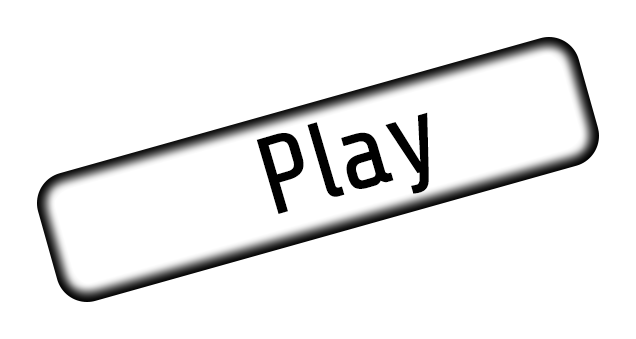
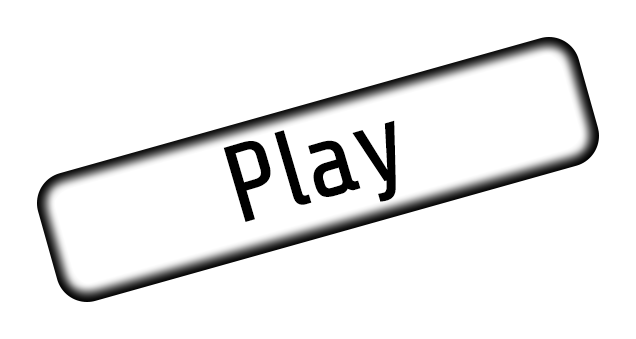
may 30th 12:13

Changed region(s): [[0.3286, 0.3245, 0.6871, 0.649]]

diff --git a/core/src/com/wilson/paino/MainMenuScreen.java b/core/src/com/wilson/paino/MainMenuScreen.java
@@ -2,19 +2,23 @@ package com.wilson.paino;
 
 import com.badlogic.gdx.Gdx;
 import com.badlogic.gdx.Screen;
+import com.badlogic.gdx.graphics.GL20;
 import com.badlogic.gdx.graphics.OrthographicCamera;
 import com.badlogic.gdx.graphics.Texture;
 import com.badlogic.gdx.graphics.g2d.SpriteBatch;
 import com.badlogic.gdx.scenes.scene2d.Event;
 import com.badlogic.gdx.scenes.scene2d.EventListener;
+import com.badlogic.gdx.scenes.scene2d.InputEvent;
 import com.badlogic.gdx.scenes.scene2d.Stage;
 import com.badlogic.gdx.scenes.scene2d.ui.Button;
 import com.badlogic.gdx.scenes.scene2d.ui.Image;
 import com.badlogic.gdx.scenes.scene2d.ui.ImageButton;
 import com.badlogic.gdx.scenes.scene2d.ui.Table;
+import com.badlogic.gdx.scenes.scene2d.utils.ClickListener;
 import com.badlogic.gdx.scenes.scene2d.utils.Drawable;
 import com.badlogic.gdx.scenes.scene2d.utils.TextureRegionDrawable;
 import com.badlogic.gdx.utils.ScreenUtils;
+import com.badlogic.gdx.utils.viewport.ScreenViewport;
 import com.badlogic.gdx.utils.viewport.Viewport;
 
 public class MainMenuScreen extends Stage implements Screen {
@@ -23,32 +27,60 @@ public class MainMenuScreen extends Stage implements Screen {
 	final Start game;
 	private OrthographicCamera camera;
     private Table table;
+    private Stage stage;
     private Image backgroundImg;
     private Texture bgTexture;
+    ImageButton closeButton;
     ImageButton startButton;
-    SpriteBatch sprites;
-    Stage stage;
+    SpriteBatch batch;
 
 	public MainMenuScreen(final Start game) {
         
 		camera = new OrthographicCamera();
-		camera.setToOrtho(false, 1920, 1080);
+		camera.setToOrtho(false, 1920, 1030);
 		this.game = game;
         stage=new Stage();
-        sprites=new SpriteBatch();
-        table=new Table();
-        table.setFillParent(true);
-        table.center();
+        Gdx.input.setInputProcessor(stage);
+        batch=new SpriteBatch();
+
+        //table=new Table();
+        //table.setFillParent(true);
+        //stage.addActor(table);
+        //table.setDebug(true);
         Drawable startTexture=new TextureRegionDrawable(new Texture(Gdx.files.internal("ui//play.png")));
         startButton=new ImageButton(startTexture);
-        stage.addActor(table);
-        table.add(startButton);
-        startButton.setBounds(561, 132, 636, 339);
+        startButton.setTransform(true);
+        startButton.setScale(0.7f);
+        Drawable closeTexture=new TextureRegionDrawable(new Texture(Gdx.files.internal("ui//close.png")));
+        closeButton=new ImageButton(closeTexture);
+        closeButton.setTransform(true);
+        closeButton.setScale(0.7f);
+        // table.add(startButton);
+        startButton.setBounds(940, 500, 636, 339);
+        closeButton.setBounds(53, 50, 636, 339);
         Gdx.input.setInputProcessor(stage);
+        stage.addActor(startButton);
+        stage.addActor(closeButton);
+        startButton.addListener(new ClickListener(){
+            public void clicked(InputEvent event, float x, float y){
+                    game.setScreen(new GameScreen(game));
+                    dispose();
+                }
+        });
+        closeButton.addListener(new ClickListener()
+        {
+            public void clicked(InputEvent event, float x, float y)
+            {
+                dispose();
+                game.dispose();
+                System.exit(1);
+            }
+        });
         bgTexture=new Texture(Gdx.files.internal("ui//start.png"));
         backgroundImg=new Image(bgTexture);
         
 	}
+
 
     @Override
     public void show() {
@@ -58,29 +90,19 @@ public class MainMenuScreen extends Stage implements Screen {
 
     @Override
     public void render(float delta) {
-        ScreenUtils.clear(0, 0, 0.2f, 1);
-
-		camera.update();
-		game.batch.setProjectionMatrix(camera.combined);
-		game.batch.begin();
-		//game.font.draw(game.batch, "Welcome to Paino!!! ", 100, 150);
-		//game.font.draw(game.batch, "Tap anywhere to begin!", 100, 100);
-        game.batch.draw(bgTexture, 0, 0);
-		game.batch.end();
-        
-        stage.act(Gdx.graphics.getDeltaTime());
-        stage.draw();
-        
-        if (Gdx.input.isTouched()) {
-			game.setScreen(new GameScreen(game));
-			dispose();
-		}
+        ScreenUtils.clear(0, 0, 0.5f, 1);
+        camera.update();
+        batch.setProjectionMatrix(camera.combined);
+        batch.begin();
+        batch.draw(bgTexture, 0, 0);
+        batch.end();
+	    stage.act(Gdx.graphics.getDeltaTime());
+	    stage.draw();
     }
 
     @Override
     public void resize(int width, int height) {
-        // TODO Auto-generated method stub
-        
+        stage.getViewport().update(width, height, true);
     }
 
     @Override
@@ -103,9 +125,10 @@ public class MainMenuScreen extends Stage implements Screen {
 
     @Override
     public void dispose() {
+        System.out.println("main menu disposed");
         // bgTexture.dispose();
-        // stage.dispose();
-        // sprites.dispose();
+        stage.dispose();
+        batch.dispose();
     }
 
 

diff --git a/core/src/com/wilson/paino/Start.java b/core/src/com/wilson/paino/Start.java
@@ -11,7 +11,7 @@ public class Start extends Game{
 
 	public void create() {
 		batch = new SpriteBatch();
-		font = new BitmapFont(); // use libGDX's default Arial font
+		font = new BitmapFont(); 
 		this.setScreen(new MainMenuScreen(this));
 	}
 
@@ -20,6 +20,7 @@ public class Start extends Game{
 	}
 
 	public void dispose() {
+		System.out.println("disposed");
 		batch.dispose();
 		font.dispose();
 	}
